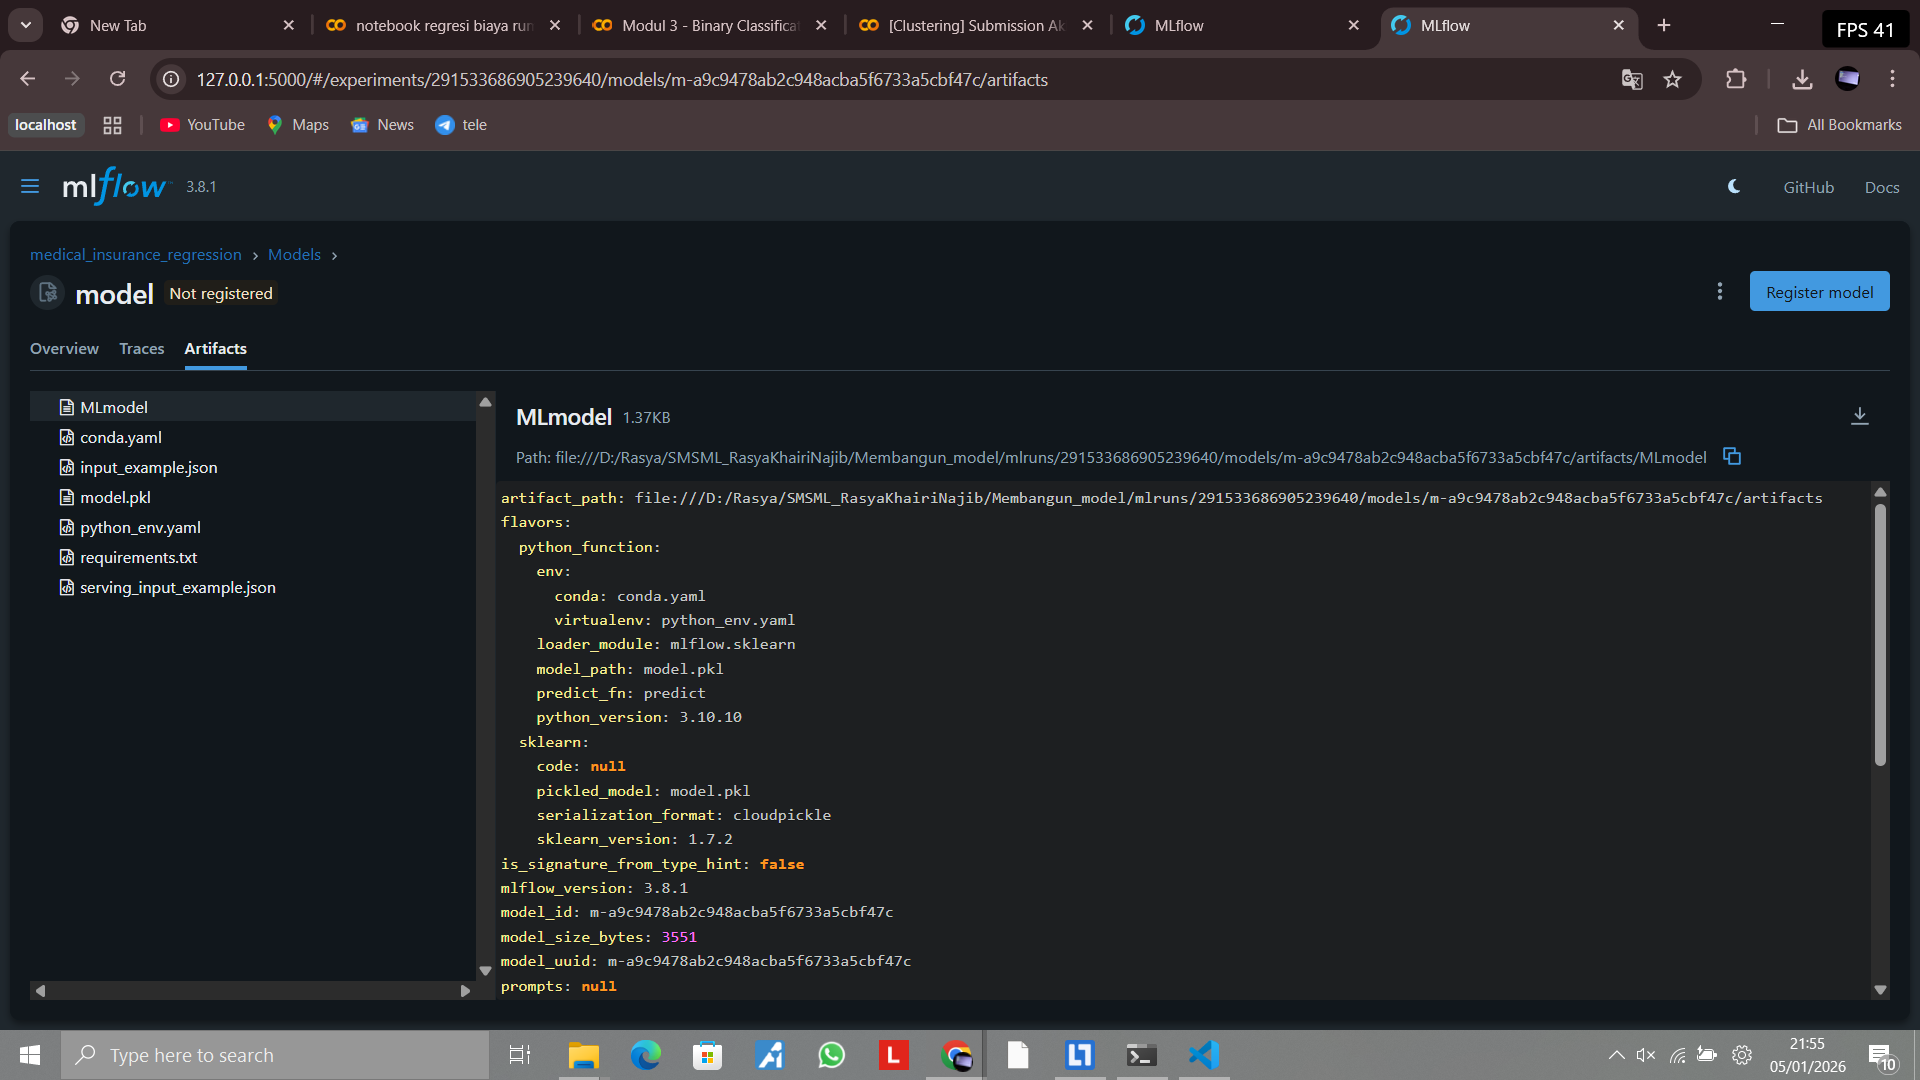
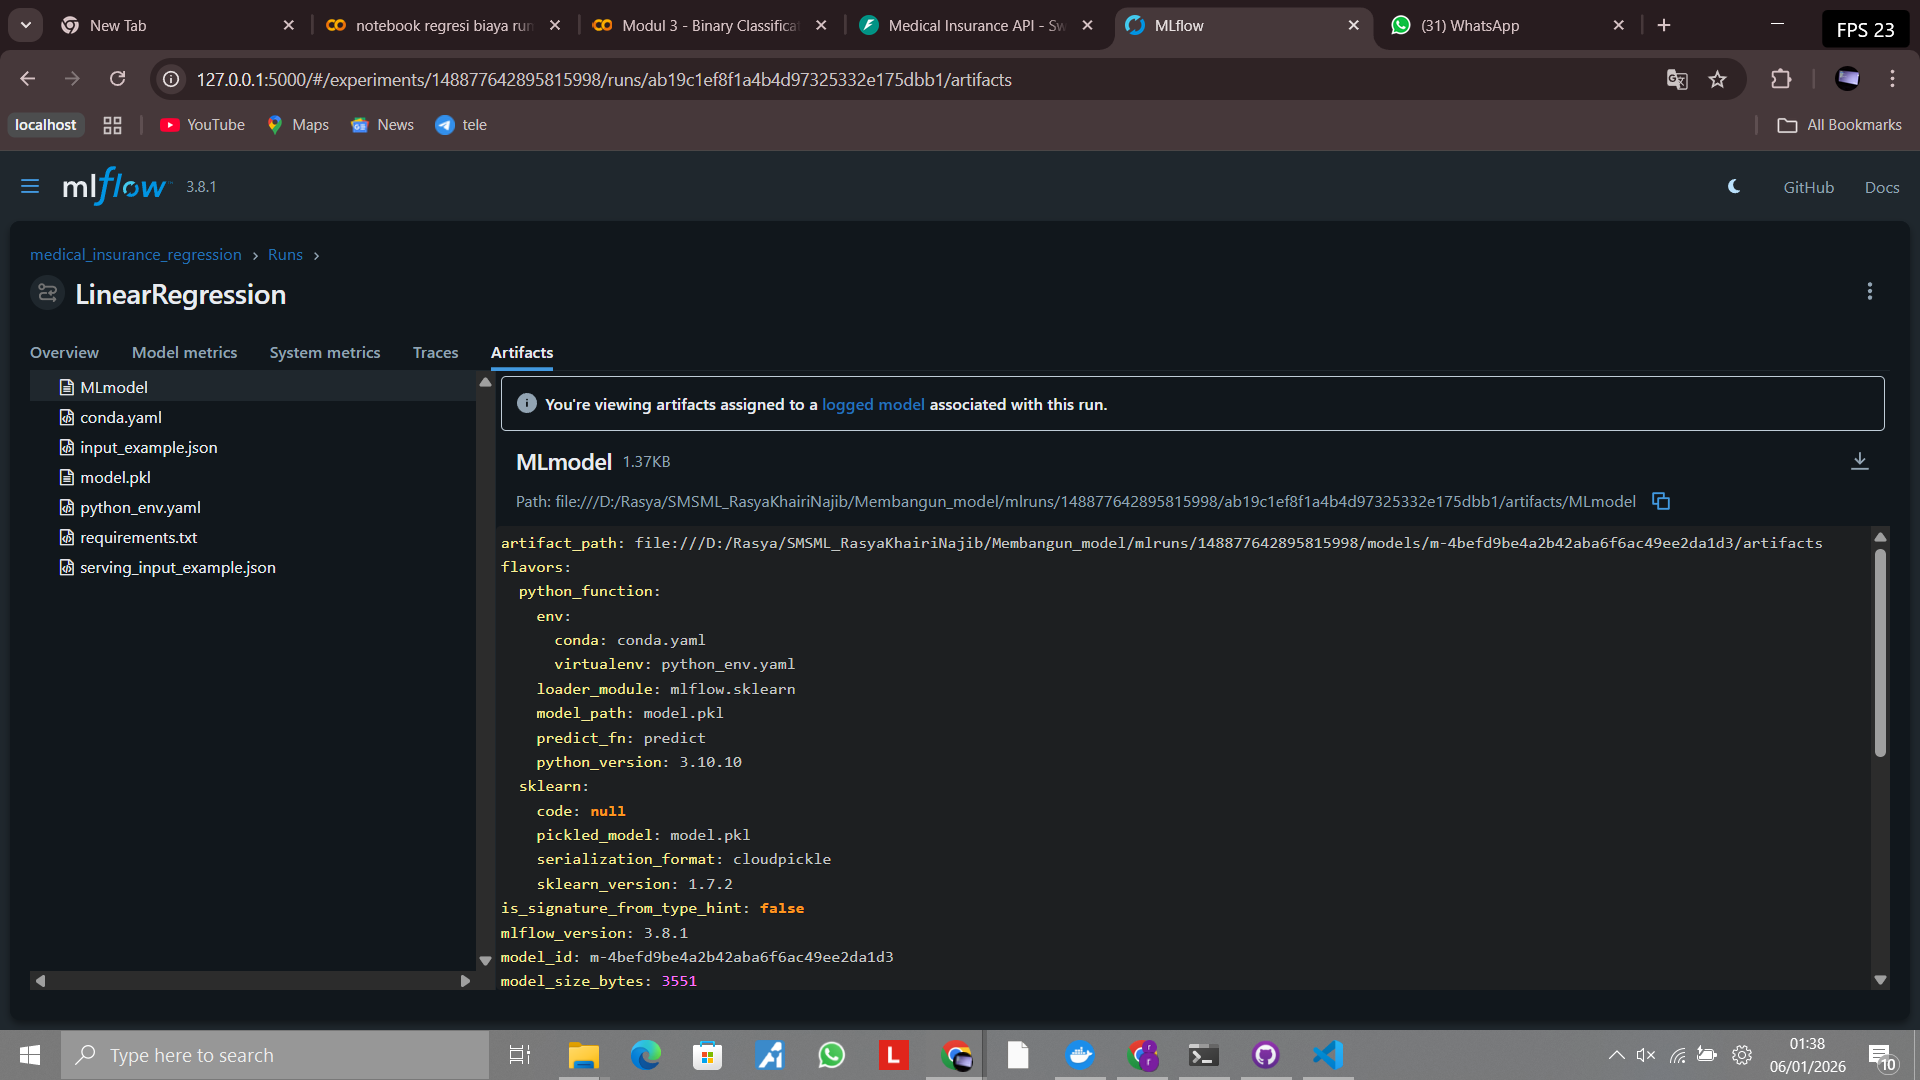
Fix  model path
mlruns have a very complicated path, resulting to failure when building docker

diff --git a/Membangun_model/api.py b/Membangun_model/api.py
@@ -1,43 +1,24 @@
 from fastapi import FastAPI
 from pydantic import BaseModel
-import numpy as np
-
 from inference import predict
 
-app = FastAPI(title="Medical Insurance API")
+app = FastAPI(title="Medical Insurance Prediction API")
 
-class InputData(BaseModel):
+class InsuranceInput(BaseModel):
     age: int
     bmi: float
     children: int
-    sex_male: int
-    smoker_yes: int
-    region_northwest: int
-    region_southeast: int
-    region_southwest: int
+    sex: str
+    smoker: str
+    region: str
+
+@app.get("/")
+def root():
+    return {"status": "API is running"}
 
 @app.post("/predict")
-def predict_endpoint(data: InputData):
-    input_array = np.array([[ 
-        data.age,
-        data.bmi,
-        data.children,
-        data.sex_male,
-        data.smoker_yes,
-        data.region_northwest,
-        data.region_southeast,
-        data.region_southwest
-    ]])
-
-    prediction = predict(input_array)
-    return {"prediction": float(prediction[0])}
-
-if __name__ == "__main__":
-    import uvicorn
-    uvicorn.run(
-        "api:app",
-        host="0.0.0.0",
-        port=8000,
-        reload=True
-    )
-    
+def predict_insurance(data: InsuranceInput):
+    result = predict(data.dict())
+    return {
+        "prediction": float(result[0])
+    }

diff --git a/Membangun_model/modelling.py b/Membangun_model/modelling.py
@@ -10,8 +10,10 @@ from sklearn.compose import ColumnTransformer
 from sklearn.pipeline import Pipeline
 from sklearn.linear_model import LinearRegression
 from sklearn.metrics import mean_squared_error, mean_absolute_error, r2_score
+from pathlib import Path
 
-mlflow.set_tracking_uri("file:./mlruns")
+BASE_DIR = Path(__file__).parent
+mlflow.set_tracking_uri(f"file:{BASE_DIR}/mlruns")
 mlflow.set_experiment("medical_insurance_regression")
 
 
@@ -86,7 +88,7 @@ def train():
         mlflow.sklearn.log_model(
             sk_model=model,
             artifact_path="model",
-            input_example=X_test.iloc[:5],
+            registered_model_name=None
         )
 
 

diff --git a/Membangun_model/inference.py b/Membangun_model/inference.py
@@ -1,8 +1,14 @@
+import mlflow
 import mlflow.sklearn
+from pathlib import Path
+import pandas as pd
 
-MODEL_URI = "runs:/ddc3b3645efd4aa7992278501d0c6784/model"
+BASE_DIR = Path(__file__).parent
 
-model = mlflow.sklearn.load_model(MODEL_URI)
+MODEL_PATH = BASE_DIR / "mlruns" / "725492521526629918" / "models" / "m-583354fbd226428db6db0ce98f64119b" / "artifacts"
 
-def predict(data):
-    return model.predict(data)
+model = mlflow.sklearn.load_model(str(MODEL_PATH))
+
+def predict(data_dict):
+    df = pd.DataFrame([data_dict])
+    return model.predict(df)
